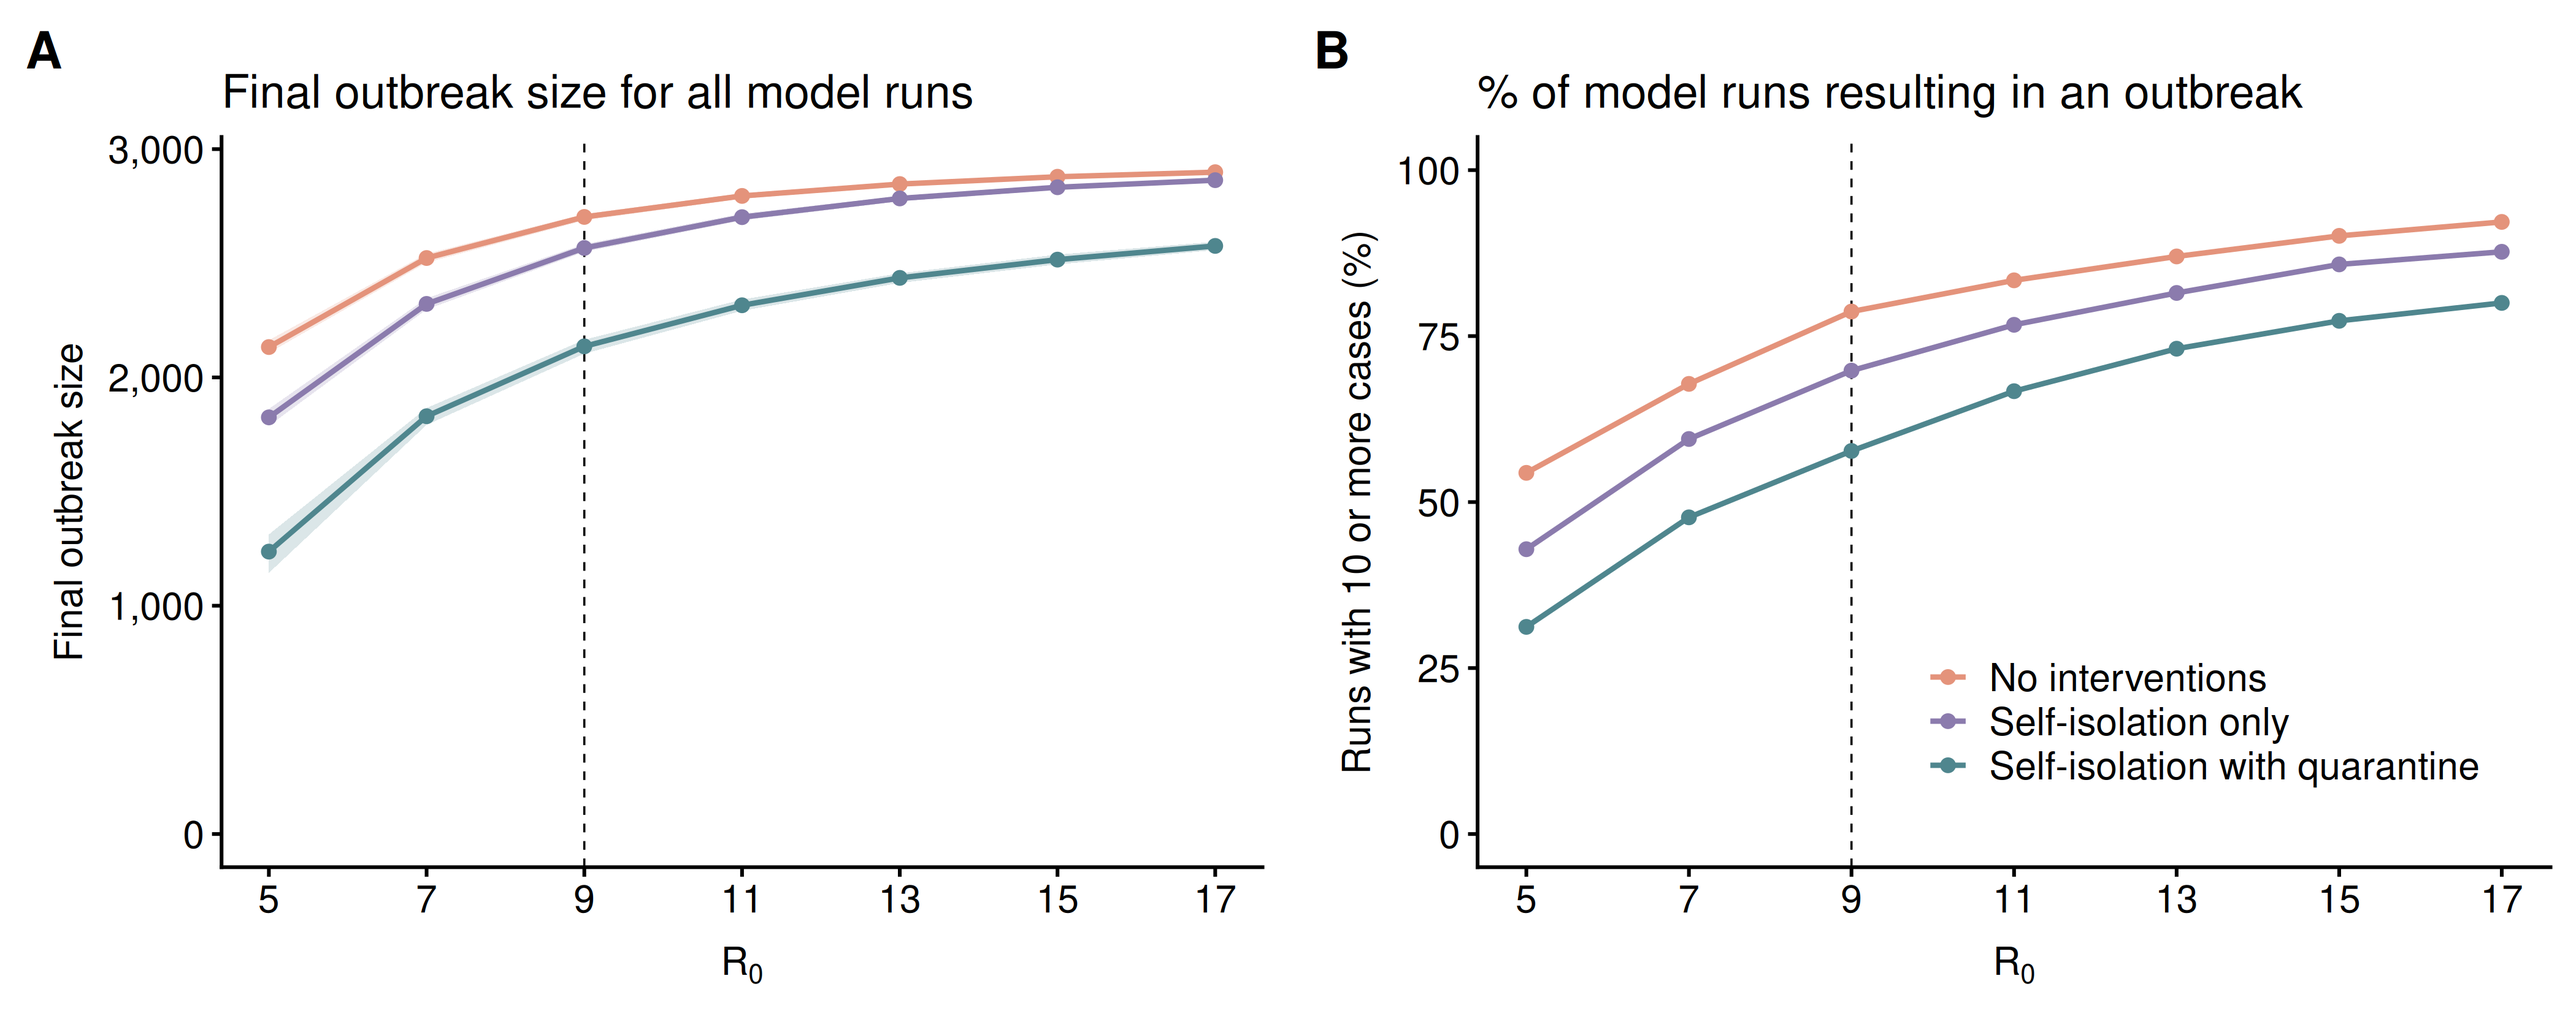
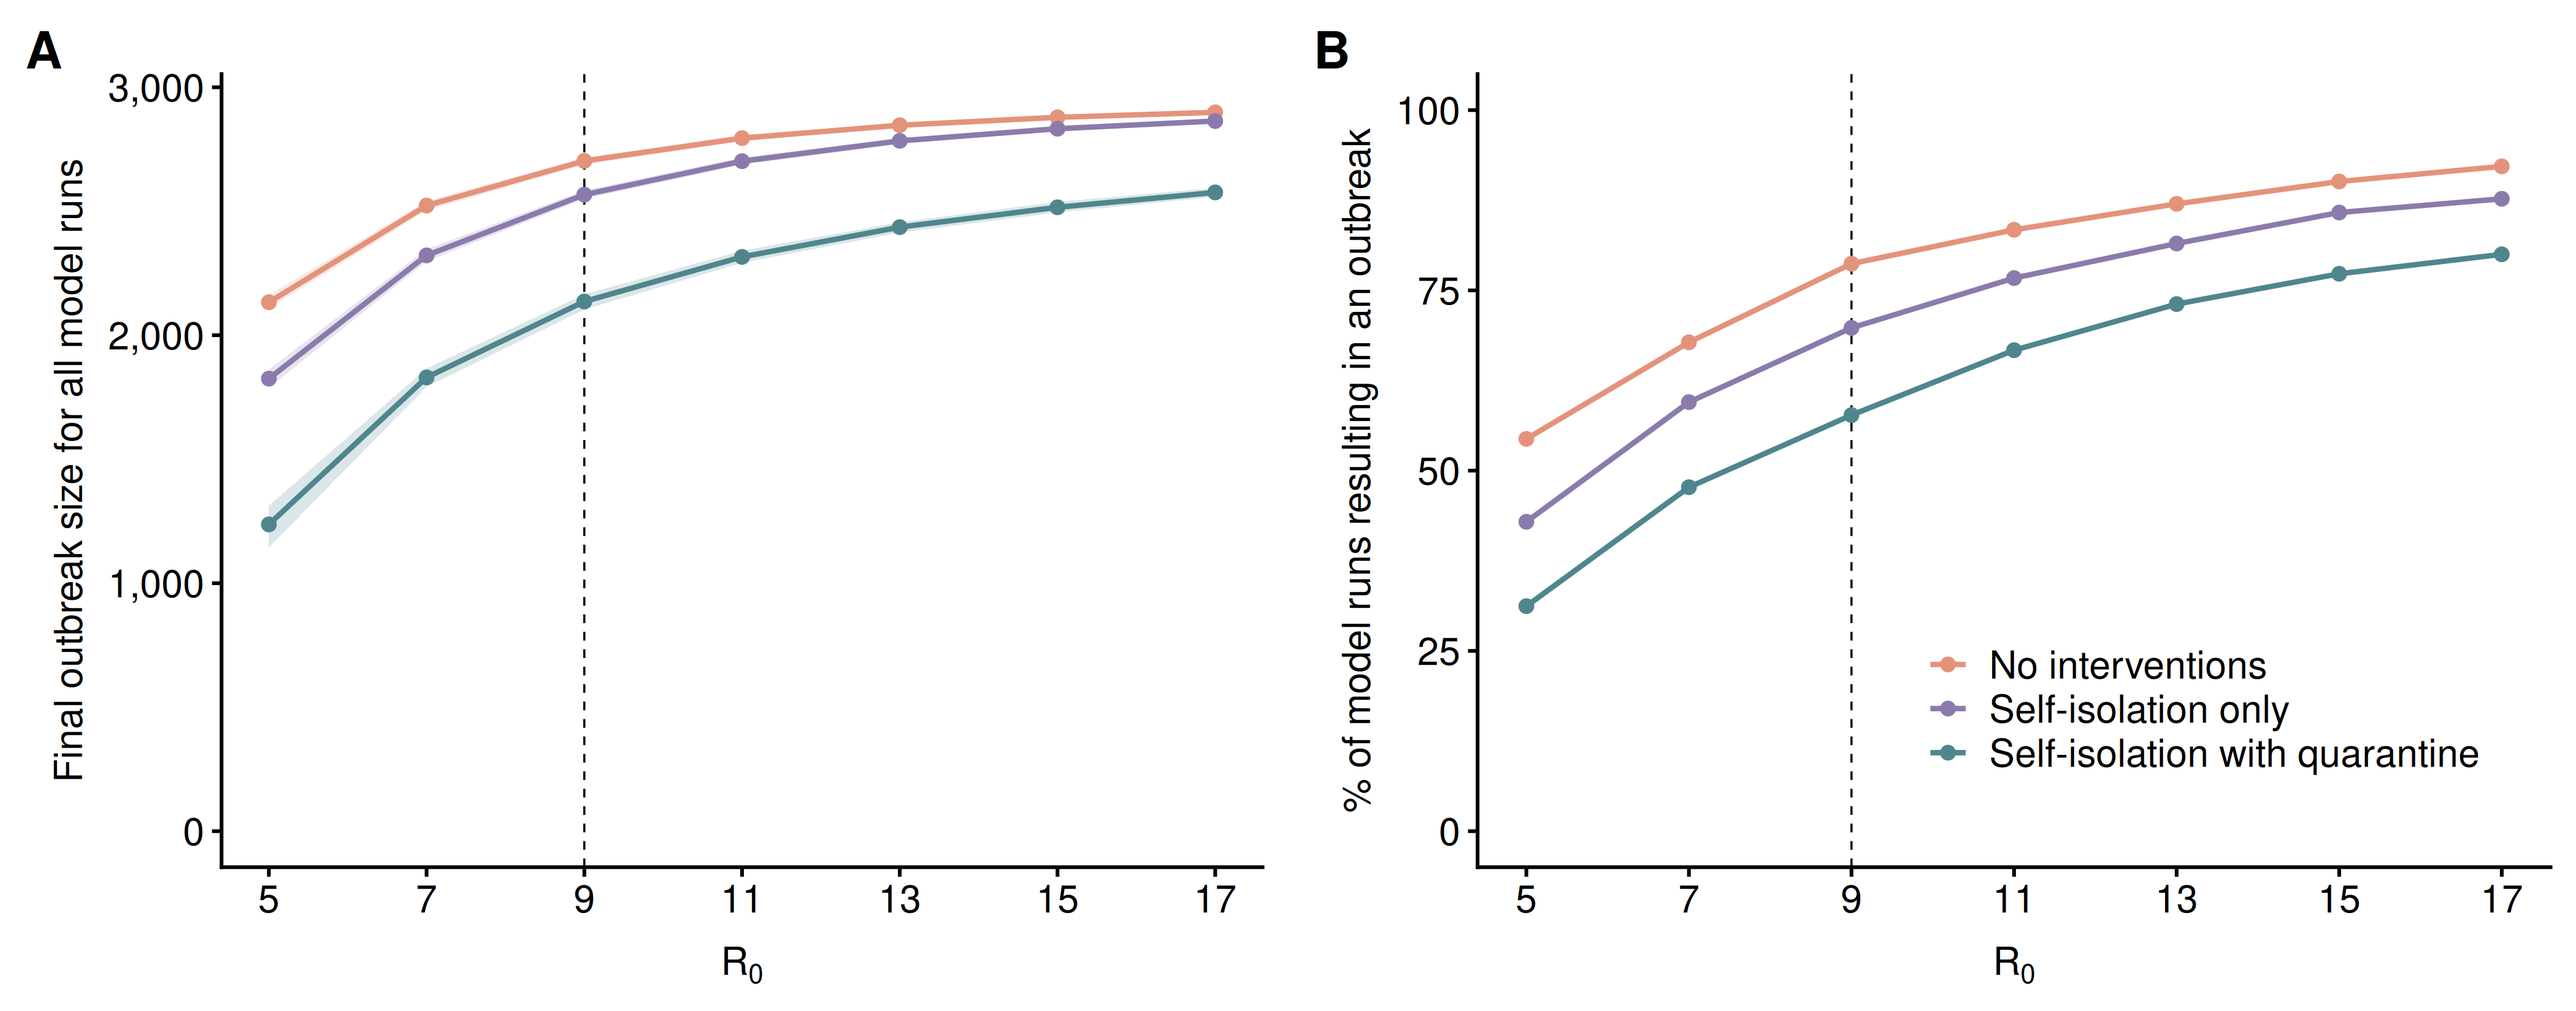
Figure 5: panel titles become the y-axis titles; label baseline coverage
- Figure 5: drop the panel titles and use them as the y-axis titles, as
  the coauthor asked.
- Figure SI 11: the baseline tick and the caption give the vaccination
  coverage of adults aged 18-69 under the baseline assumption (68%),
  computed from data/utaz_vaccination_adults_baseline.csv.

diff --git a/population_immunity/README.md b/population_immunity/README.md
@@ -20,9 +20,9 @@ across the retained runs; the ratio is of the medians.
 
 | Adult vaccination | Scenario | Retained runs | Total infections | Children | Adults | Child:adult ratio |
 |:---|:---|---:|---:|---:|---:|---:|
-| Baseline | No interventions | 777 | 2,700 (2,686-2,715) | 1,739 (1,731-1,747) | 961 (951-972) | 1.8 |
-| Baseline | Self-isolation only | 703 | 2,567 (2,547-2,585) | 1,680 (1,670-1,691) | 887 (872-899) | 1.9 |
-| Baseline | Self-isolation with quarantine | 594 | 2,138 (2,106-2,167) | 1,447 (1,426-1,466) | 690 (673-707) | 2.1 |
+| Baseline (68%) | No interventions | 777 | 2,700 (2,686-2,715) | 1,739 (1,731-1,747) | 961 (951-972) | 1.8 |
+| Baseline (68%) | Self-isolation only | 703 | 2,567 (2,547-2,585) | 1,680 (1,670-1,691) | 887 (872-899) | 1.9 |
+| Baseline (68%) | Self-isolation with quarantine | 594 | 2,138 (2,106-2,167) | 1,447 (1,426-1,466) | 690 (673-707) | 2.1 |
 | 78% | No interventions | 726 | 2,295 (2,280-2,311) | 1,720 (1,713-1,730) | 575 (564-586) | 3.0 |
 | 78% | Self-isolation only | 646 | 2,157 (2,138-2,177) | 1,656 (1,644-1,668) | 500 (487-513) | 3.3 |
 | 78% | Self-isolation with quarantine | 532 | 1,781 (1,750-1,806) | 1,415 (1,395-1,434) | 366 (353-379) | 3.9 |
@@ -43,12 +43,12 @@ across the retained runs; the ratio is of the medians.
 
 Figure 1: Figure SI 11. Projected final outbreak size at R0 = 9 under
 alternative adult vaccination-coverage assumptions. Simulations used the
-baseline coverage and 78%, 86%, and 93% coverage among adults aged 18-69
-years, under no interventions, self-isolation only, and self-isolation
-with quarantine. Panels show total infections, infections among children
-younger than 18 years, and infections among adults aged 18 years or
-older. Points denote the median at day 365 across simulations with at
-least 10 cases; vertical bars denote the 95% interval (2.5th to 97.5th
-percentiles) across those simulations.
+baseline coverage (68%) and 78%, 86%, and 93% coverage among adults aged
+18-69 years, under no interventions, self-isolation only, and
+self-isolation with quarantine. Panels show total infections, infections
+among children younger than 18 years, and infections among adults aged
+18 years or older. Points denote the median at day 365 across
+simulations with at least 10 cases; vertical bars denote the 95%
+interval (2.5th to 97.5th percentiles) across those simulations.
 
 </div>
